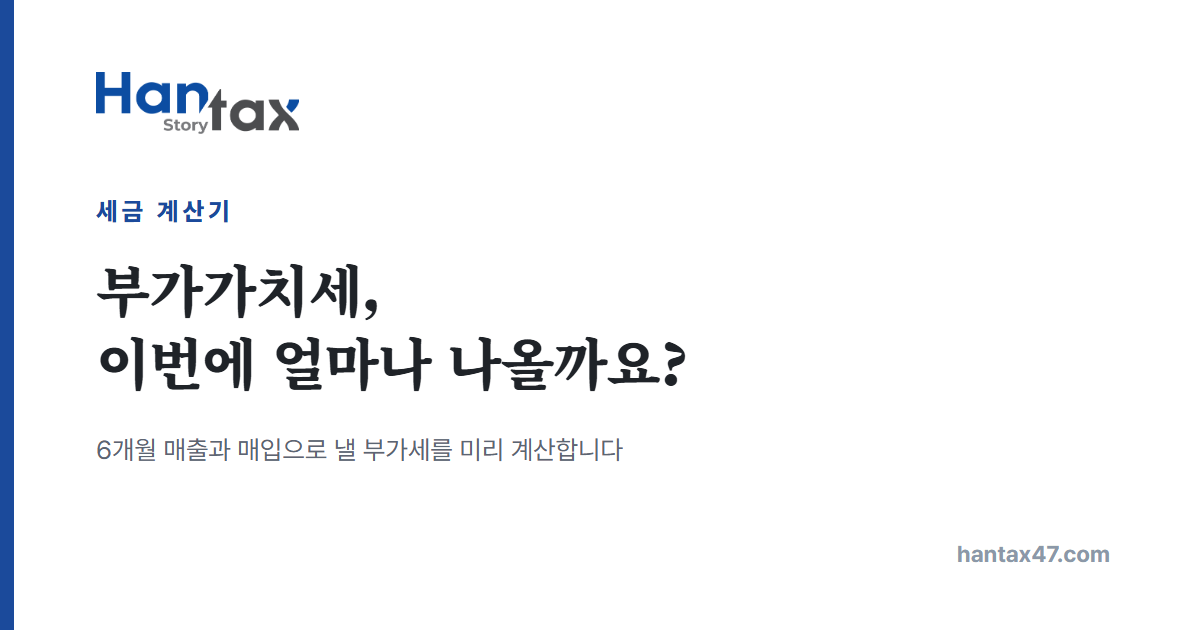
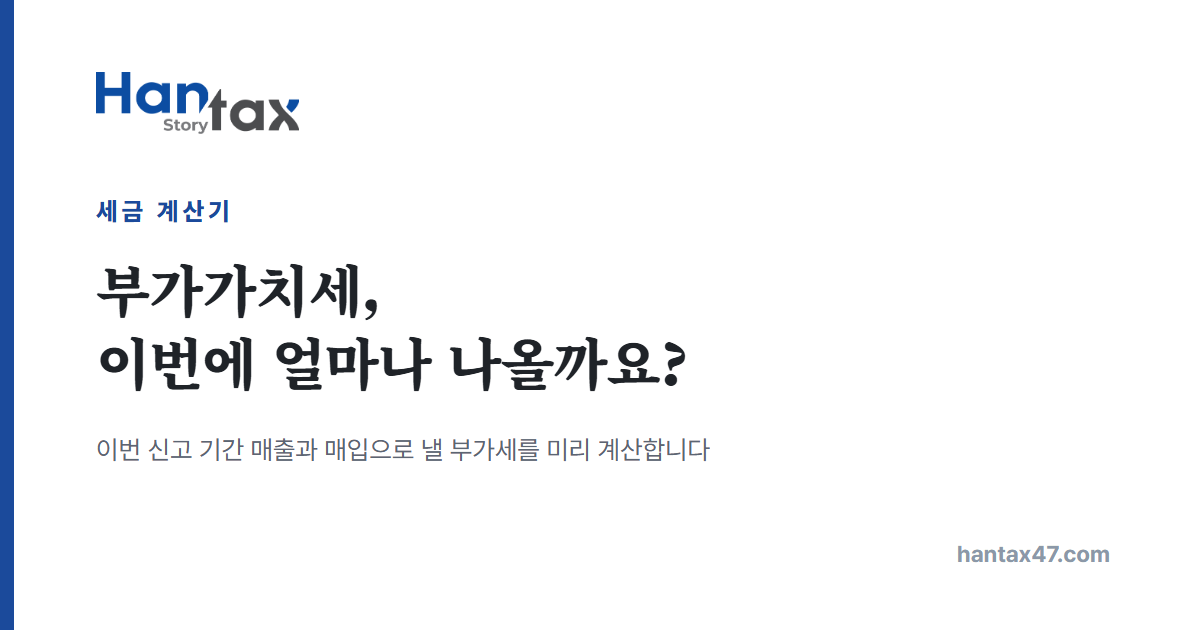
부가가치세 계산기: 사업자 구분(개인/법인) 추가, 신고 기간 표현 정리
사용자 요청: 매출·매입 제목 옆에 (부가가치세 포함) 명시, 법인은 3개월일 수 있으니 "6개월" 대신 다른 표현, 법인은 신용카드 발행세액공제 제외·의제매입 공제율 다름. 맨 위에 사업자 구분(개인사업자/법인) 선택을 두고, 기간은 "이번 신고 기간 합계"로 개인은 (1~6월 또는 7~12월), 법인은 (3개월) 표시. 법인을 고르면 개인 손님 체크 칸을 숨기고 카드 공제를 빼며(카드 매출이 있으면 이유 안내), 의제매입은 6/106·과세표준의 50% 한도(우대, 2027년 말까지) 적용, 예정고지 안내는 개인만. 결과 머리글·설명문·목록 카드·카톡 미리보기에서 "6개월" 표현을 신고 기간으로. 검산: 개인 사례 3,399,530원 그대로, 법인 카드 공제 0·6/106·50% 한도 확인.

Changed region(s): [[0.0617, 0.6937, 0.6167, 0.754]]

diff --git a/tools/vat.html b/tools/vat.html
@@ -4,13 +4,13 @@
 <meta charset="UTF-8">
 <meta name="viewport" content="width=device-width, initial-scale=1.0">
 <title>부가가치세 계산기 2026, 이번 부가세 얼마나 나올까요? | 한택스</title>
-<meta name="description" content="6개월(1~6월 또는 7~12월) 매출과 매입을 넣으면 이번 신고 때 낼 부가가치세를 미리 계산합니다. 카드 매출 세액공제와 음식점 의제매입세액공제를 반영합니다.">
+<meta name="description" content="이번 신고 기간(개인 6개월, 법인 3개월)의 매출과 매입을 넣으면 낼 부가가치세를 미리 계산합니다. 카드 매출 세액공제와 음식점 의제매입세액공제를 반영합니다.">
 <link rel="canonical" href="https://www.hantax47.com/tools/vat.html">
 <meta property="og:title" content="부가가치세, 이번에 얼마나 나올까요?">
 <meta property="og:description" content="매출과 매입으로 낼 부가세를 미리 계산하는 계산기">
 <meta property="og:type" content="website">
 <meta property="og:url" content="https://www.hantax47.com/tools/vat.html">
-<meta property="og:image" content="https://www.hantax47.com/assets/og/tool-vat.png?v=3">
+<meta property="og:image" content="https://www.hantax47.com/assets/og/tool-vat.png?v=4">
 <meta property="og:site_name" content="한택스">
 <link rel="icon" href="../assets/favicon.png?v=4">
 <link rel="preconnect" href="https://fonts.googleapis.com">
@@ -41,6 +41,7 @@
 .divider:first-child{border-top:0;padding-top:0}
 .divider b{font-size:14.5px;color:var(--ink)}
 .divider span{font-size:12.5px;color:var(--mute)}
+.divider b small{font-weight:500;color:var(--mute);font-size:12.5px;margin-left:4px}
 .sim .chk{grid-column:1/-1;display:flex;flex-direction:column;gap:10px;border-top:1px solid var(--line);padding-top:18px}
 .sim .chk label{display:flex;align-items:center;flex-wrap:wrap;gap:4px 8px;margin:0;font-weight:600;font-size:14px;color:var(--char);cursor:pointer}
 .sim .chk input{width:17px;height:17px;padding:0;accent-color:var(--blue);flex:none}
@@ -116,7 +117,7 @@
   <div class="wrap">
     <span class="eyebrow">세무설계</span>
     <h1>부가가치세,<br>이번에 얼마나 나올까요?</h1>
-    <p class="lead">6개월(1~6월 또는 7~12월) 동안의 매출과 매입을 넣으면 이번 신고 때 낼 부가가치세를 미리 계산합니다. 카드 매출 세액공제와 음식점 의제매입세액공제도 반영합니다.</p>
+    <p class="lead">이번 신고 기간(개인 6개월, 법인 3개월)의 매출과 매입을 넣으면 낼 부가가치세를 미리 계산합니다. 카드 매출 세액공제와 음식점 의제매입세액공제도 반영합니다.</p>
   </div>
 </section>
 
@@ -124,7 +125,12 @@
   <div class="wrap">
     <div class="sim">
       <div class="sim-in">
-        <div class="divider"><b>매출</b><span>6개월 합계 (1~6월 또는 7~12월) · 부가세 포함 금액</span></div>
+        <div>
+          <label for="i-type">사업자 구분</label>
+          <select id="i-type"><option value="indiv">개인사업자</option><option value="corp">법인</option></select>
+        </div>
+        <div></div>
+        <div class="divider"><b>매출 <small>(부가가치세 포함)</small></b><span id="period">이번 신고 기간 합계 (1~6월 또는 7~12월)</span></div>
         <div>
           <label for="i-s-tax">세금계산서 매출 <button type="button" class="help" aria-label="설명 보기" aria-expanded="false" data-help="사업자 거래처에 발행한 세금계산서의 합계금액(공급가액 + 세액)입니다.">?</button></label>
           <div class="unit"><input type="text" id="i-s-tax" inputmode="numeric"><span>원</span></div>
@@ -138,7 +144,7 @@
           <div class="unit"><input type="text" id="i-s-cash" inputmode="numeric"><span>원</span></div>
         </div>
         <div></div>
-        <div class="divider"><b>매입</b><span>같은 6개월 · 부가세 포함 금액</span></div>
+        <div class="divider"><b>매입 <small>(부가가치세 포함)</small></b><span>같은 기간 합계</span></div>
         <div>
           <label for="i-b-tax">세금계산서 매입 <button type="button" class="help" aria-label="설명 보기" aria-expanded="false" data-help="사업자에게 받은 세금계산서의 합계금액입니다. 부가세가 없는 계산서(면세) 매입은 빼 주세요.">?</button></label>
           <div class="unit"><input type="text" id="i-b-tax" inputmode="numeric"><span>원</span></div>
@@ -148,7 +154,7 @@
           <div class="unit"><input type="text" id="i-b-card" inputmode="numeric"><span>원</span></div>
         </div>
         <div class="chk">
-          <label><input type="checkbox" id="i-consumer">주로 개인 손님에게 직접 팝니다 <small>가게·식당·미용실 등, 직전 연도 매출 10억 원 이하 개인사업자</small></label>
+          <label id="w-consumer"><input type="checkbox" id="i-consumer">주로 개인 손님에게 직접 팝니다 <small>가게·식당·미용실 등, 직전 연도 매출 10억 원 이하 개인사업자</small></label>
           <label><input type="checkbox" id="i-food">음식점을 합니다 <small>식당·카페·주점 등</small></label>
         </div>
         <div id="w-farm" style="display:none">
@@ -185,10 +191,10 @@
       </div>
 
       <p class="disc">
-        · 개인 일반과세자의 6개월치 부가가치세를 계산합니다. 1~6월분은 7월에, 7~12월분은 다음 해 1월에 신고합니다. 4월이나 10월에 예정고지로 미리 낸 세금이 있으면 그만큼 빼고 냅니다.<br>
+        · 일반과세자가 한 번 신고할 때의 부가가치세를 계산합니다. 개인사업자는 6개월마다(1~6월분은 7월, 7~12월분은 다음 해 1월), 법인은 3개월마다 신고합니다. 개인사업자는 4월이나 10월에 예정고지로 미리 낸 세금이 있으면 그만큼 빼고 냅니다.<br>
         · 금액은 모두 부가세가 포함된 금액으로 넣습니다. 세금계산서는 공급가액과 세액을 더한 합계금액입니다.<br>
-        · 신용카드매출전표 등 발행세액공제는 카드·현금영수증 매출의 1.3%, 한 해 1,000만 원 한도로 반영했습니다. 직전 연도 매출 10억 원 이하 개인사업자 가운데 소매·음식·숙박업처럼 주로 개인 손님에게 파는 업종이 받을 수 있고, 법인은 받을 수 없습니다.<br>
-        · 의제매입세액공제는 개인 음식점 기준입니다. 6개월 과세표준 2억 원 이하 9/109(2026년 말까지), 초과 8/108을 적용하고, 공제받을 수 있는 매입은 과세표준의 75%(1억 원 이하)·70%(2억 원 이하)·60%(초과)까지로 계산했습니다(우대 한도, 2027년 말까지).<br>
+        · 신용카드매출전표 등 발행세액공제는 카드·현금영수증 매출의 1.3%, 한 해 1,000만 원 한도로 반영했습니다. 직전 연도 매출 10억 원 이하 개인사업자 가운데 소매·음식·숙박업처럼 주로 개인 손님에게 파는 업종이 받을 수 있고, 법인은 받을 수 없어 법인을 고르면 빼고 계산합니다.<br>
+        · 의제매입세액공제는 음식점 기준입니다. 개인은 6개월 과세표준 2억 원 이하 9/109(2026년 말까지), 초과 8/108을 적용하고, 공제받을 수 있는 매입은 과세표준의 75%(1억 원 이하)·70%(2억 원 이하)·60%(초과)까지입니다. 법인은 6/106, 과세표준의 50%까지입니다. 한도는 모두 2027년 말까지 적용되는 우대 한도입니다.<br>
         · 간이과세자는 1년에 한 번, 업종별 부가가치율로 계산하는 방식이라 이 계산기와 맞지 않습니다.
       </p>
 
@@ -220,25 +226,29 @@ const mb=document.querySelector(".menu-btn"),nl=document.getElementById("nav-lin
 mb.addEventListener("click",()=>{const open=document.body.classList.toggle("menu-open");mb.setAttribute("aria-expanded",open);});
 nl.addEventListener("click",e=>{if(e.target.tagName==="A"){document.body.classList.remove("menu-open");mb.setAttribute("aria-expanded","false");}});
 
-/* ── 부가가치세 (개인 일반과세자, 6개월 한 번 신고분) ─── */
+/* ── 부가가치세 (일반과세자, 한 번 신고분) ─── */
 const CARD_RATE=0.013, CARD_MAX=10000000;   // 신용카드매출전표 등 발행세액공제: 1.3%, 한 해 1,000만 원 한도
 const f10=x=>(x<0?-1:1)*Math.floor(Math.abs(x)/10+1e-9)*10;   // 10원 미만 버림 (환급액도 같은 방식)
 
-// 금액은 모두 부가세 포함. 의제매입 공제율·한도율의 1억·2억 기준은 6개월 과세표준입니다
+// 금액은 모두 부가세 포함, 한 번 신고하는 기간(개인 6개월, 법인 3개월) 합계. 개인 의제매입 공제율·한도율의 1억·2억 기준은 6개월 과세표준입니다
 function calcVat(c){
   const sales=c.salesTax+c.salesCard+c.salesCash, buy=c.buyTax+c.buyCard;
   const supply=sales/1.1;                           // 과세표준 (공급가액)
   const outTax=sales/11, inTax=buy/11;
-  let deemed=0, deemedRate=0, deemedCap=0, capRate=0;
+  let deemed=0, deemedRate=0, deemedCap=0, capRate=0, rateName='';
   if(c.food&&c.farm>0){
-    deemedRate=supply<=200000000?9/109:8/108;
-    capRate=supply<=100000000?0.75:supply<=200000000?0.70:0.60;   // 개인 음식점 우대 한도 (2027년 말까지)
+    if(c.corp){ deemedRate=6/106; rateName='6/106'; capRate=0.5; }   // 법인 음식점, 우대 한도 50% (2027년 말까지)
+    else{
+      const small=supply<=200000000;
+      deemedRate=small?9/109:8/108; rateName=small?'9/109':'8/108';
+      capRate=supply<=100000000?0.75:small?0.70:0.60;   // 개인 음식점 우대 한도 (2027년 말까지)
+    }
     deemedCap=supply*capRate;
     deemed=Math.min(c.farm,deemedCap)*deemedRate;
   }
   const pre=outTax-inTax-deemed;
-  const card=c.consumer?Math.min(c.salesCard*CARD_RATE,CARD_MAX,Math.max(0,pre)):0;   // 납부할 세액을 넘지 않습니다
-  return {sales,buy,supply,outTax,inTax,deemed,deemedRate,deemedCap,capRate,card,due:f10(pre-card)};
+  const card=c.consumer&&!c.corp?Math.min(c.salesCard*CARD_RATE,CARD_MAX,Math.max(0,pre)):0;   // 납부할 세액을 넘지 않습니다
+  return {sales,buy,supply,outTax,inTax,deemed,deemedRate,deemedCap,capRate,rateName,card,due:f10(pre-card)};
 }
 
 /* ── 입력 ─────────────────────────────────── */
@@ -249,16 +259,22 @@ const num=s=>Number(String(s).replace(/[^0-9]/g,''))||0;
   const el=$(id); el.addEventListener('input',()=>{const v=num(el.value); el.value=v?v.toLocaleString('ko-KR'):'';});
 });
 function read(){
-  const food=$('i-food').checked;
-  return {salesTax:num($('i-s-tax').value),salesCard:num($('i-s-card').value),salesCash:num($('i-s-cash').value),
+  const food=$('i-food').checked, corp=$('i-type').value==='corp';
+  return {corp,salesTax:num($('i-s-tax').value),salesCard:num($('i-s-card').value),salesCash:num($('i-s-cash').value),
     buyTax:num($('i-b-tax').value),buyCard:num($('i-b-card').value),
-    food,farm:food?num($('i-farm').value):0,consumer:$('i-consumer').checked};
+    food,farm:food?num($('i-farm').value):0,consumer:!corp&&$('i-consumer').checked};
 }
 // 음식점을 고르면 면세 농수산물 칸을 보이고, 개인 손님 대상 업종 체크도 함께 켭니다
 $('i-food').addEventListener('change',()=>{
   const on=$('i-food').checked;
   $('w-farm').style.display=on?'':'none';
-  if(on) $('i-consumer').checked=true;
+  if(on&&$('i-type').value!=='corp') $('i-consumer').checked=true;
+});
+// 법인은 신용카드 발행세액공제를 받을 수 없어 체크 칸을 숨기고, 신고 기간을 3개월로 안내합니다
+$('i-type').addEventListener('change',()=>{
+  const corp=$('i-type').value==='corp';
+  $('w-consumer').style.display=corp?'none':'';
+  $('period').textContent=corp?'이번 신고 기간 합계 (3개월)':'이번 신고 기간 합계 (1~6월 또는 7~12월)';
 });
 const shown=()=>$('res').style.display==='block';
 const money=v=>v<0?'환급 '+won(-v)+'원':won(v)+'원';
@@ -267,7 +283,7 @@ const money=v=>v<0?'환급 '+won(-v)+'원':won(v)+'원';
 // 의제매입 한도가 표에서 바로 보이게: 한도 금액과 과세표준 대비 비율, 넘었으면 한도까지만 반영했다고 적습니다
 function deemedNote(c,r){
   if(!c.farm) return '면세 농수산물 매입을 넣으면 반영합니다';
-  const rate=r.deemedRate>0.08?'9/109':'8/108', cap='한도 '+won(r.deemedCap)+'원 (과세표준의 '+Math.round(r.capRate*100)+'%)';
+  const rate=r.rateName, cap='한도 '+won(r.deemedCap)+'원 (과세표준의 '+Math.round(r.capRate*100)+'%)';
   return c.farm>r.deemedCap
     ?'매입 '+won(c.farm)+'원이 '+cap+'을 넘어 한도까지만 × '+rate
     :'매입 '+won(c.farm)+'원 × '+rate+' · '+cap;
@@ -282,15 +298,16 @@ function render(){
     +(c.consumer?row('신용카드매출전표 등 발행세액공제','카드·현금영수증 매출의 1.3%','− '+won(r.card)+'원','minus'):'')
     +'<tr class="tot"><td>이번에 낼 부가세</td><td class="best">'+money(r.due)+'</td></tr>';
 
-  $('res-sub').textContent='6개월 매출 '+won(r.sales)+'원 · 매입 '+won(r.buy)+'원';
+  $('res-sub').textContent=(c.corp?'법인':'개인사업자')+' · 매출 '+won(r.sales)+'원 · 매입 '+won(r.buy)+'원';
 
   const v=r.due<0
     ?'매입세액이 매출세액보다 많아 <b>'+won(-r.due)+'원을 돌려받습니다.</b> 인테리어나 설비처럼 큰 매입이 있었던 기간에 생깁니다.'
-    :'이번 6개월분 부가가치세는 <b>'+won(r.due)+'원</b>입니다.';
+    :'이번 신고분 부가가치세는 <b>'+won(r.due)+'원</b>입니다.';
   const notes=[];
-  if(r.due>0) notes.push('4월이나 10월에 예정고지로 미리 낸 세금이 있으면 그만큼 빼고 냅니다.');
-  if(!c.consumer&&c.salesCard>0) notes.push('주로 개인 손님에게 파는 업종이라면 카드·현금영수증 매출의 1.3%를 더 뺄 수 있습니다. 해당하면 위에서 체크해 보세요.');
-  if(c.consumer&&c.salesCard*CARD_RATE>CARD_MAX) notes.push('카드 매출 세액공제는 한 해 1,000만 원까지라 1,000만 원만 반영했습니다. 앞선 6개월에 이미 받았다면 그만큼 줄어듭니다.');
+  if(!c.corp&&r.due>0) notes.push('4월이나 10월에 예정고지로 미리 낸 세금이 있으면 그만큼 빼고 냅니다.');
+  if(c.corp&&c.salesCard>0) notes.push('법인은 신용카드매출전표 등 발행세액공제를 받을 수 없어 반영하지 않았습니다.');
+  if(!c.corp&&!c.consumer&&c.salesCard>0) notes.push('주로 개인 손님에게 파는 업종이라면 카드·현금영수증 매출의 1.3%를 더 뺄 수 있습니다. 해당하면 위에서 체크해 보세요.');
+  if(c.consumer&&c.salesCard*CARD_RATE>CARD_MAX) notes.push('카드 매출 세액공제는 한 해 1,000만 원까지라 1,000만 원만 반영했습니다. 올해 앞선 신고에서 이미 받았다면 그만큼 줄어듭니다.');
   if(c.food&&c.farm>r.deemedCap) notes.push('면세 농수산물 매입이 공제 한도를 넘어 '+won(r.deemedCap)+'원까지만 의제매입세액공제에 반영했습니다.');
   $('verdict').innerHTML=v+notes.map(n=>'<span class="note">'+n+'</span>').join('');
 
@@ -298,7 +315,7 @@ function render(){
   $('steps').innerHTML='<table class="stable">'
     +srow('매출세액','(세금계산서 '+won(c.salesTax)+' + 카드·현금영수증 '+won(c.salesCard)+' + 현금·기타 '+won(c.salesCash)+') × 10/110',won(r.outTax)+'원')
     +srow('매입세액','(세금계산서 '+won(c.buyTax)+' + 카드·현금영수증 '+won(c.buyCard)+') × 10/110','− '+won(r.inTax)+'원')
-    +(c.food?srow('의제매입세액공제',c.farm>0?'min(농수산물 '+won(c.farm)+', 한도 '+won(r.deemedCap)+' = 과세표준 '+won(r.supply)+' × '+Math.round(r.capRate*100)+'%) × '+(r.deemedRate>0.08?'9/109':'8/108'):'면세 농수산물 매입을 넣으면 반영합니다','− '+won(r.deemed)+'원'):'')
+    +(c.food?srow('의제매입세액공제',c.farm>0?'min(농수산물 '+won(c.farm)+', 한도 '+won(r.deemedCap)+' = 과세표준 '+won(r.supply)+' × '+Math.round(r.capRate*100)+'%) × '+r.rateName:'면세 농수산물 매입을 넣으면 반영합니다','− '+won(r.deemed)+'원'):'')
     +(c.consumer?srow('신용카드매출전표 등 발행세액공제','카드·현금영수증 매출 '+won(c.salesCard)+' × 1.3% (한 해 1,000만 원, 납부할 세액 한도)','− '+won(r.card)+'원'):'')
     +srow('이번에 낼 부가세','10원 미만 버림',money(r.due))
     +'</table>';

diff --git a/tools/index.html b/tools/index.html
@@ -118,7 +118,7 @@
       <a class="tool" href="vat.html">
         <span class="no">08</span>
         <b>부가가치세,<br>이번에 얼마나 나올까요?</b>
-        <p>6개월 매출과 매입으로 이번 신고 때 낼 부가세를 미리 계산합니다. 카드 매출 세액공제와 음식점 의제매입세액공제를 반영합니다.</p>
+        <p>이번 신고 기간의 매출과 매입으로 낼 부가세를 미리 계산합니다. 카드 매출 세액공제와 음식점 의제매입세액공제를 반영합니다.</p>
         <span class="go">계산해 보기</span>
       </a>
 
